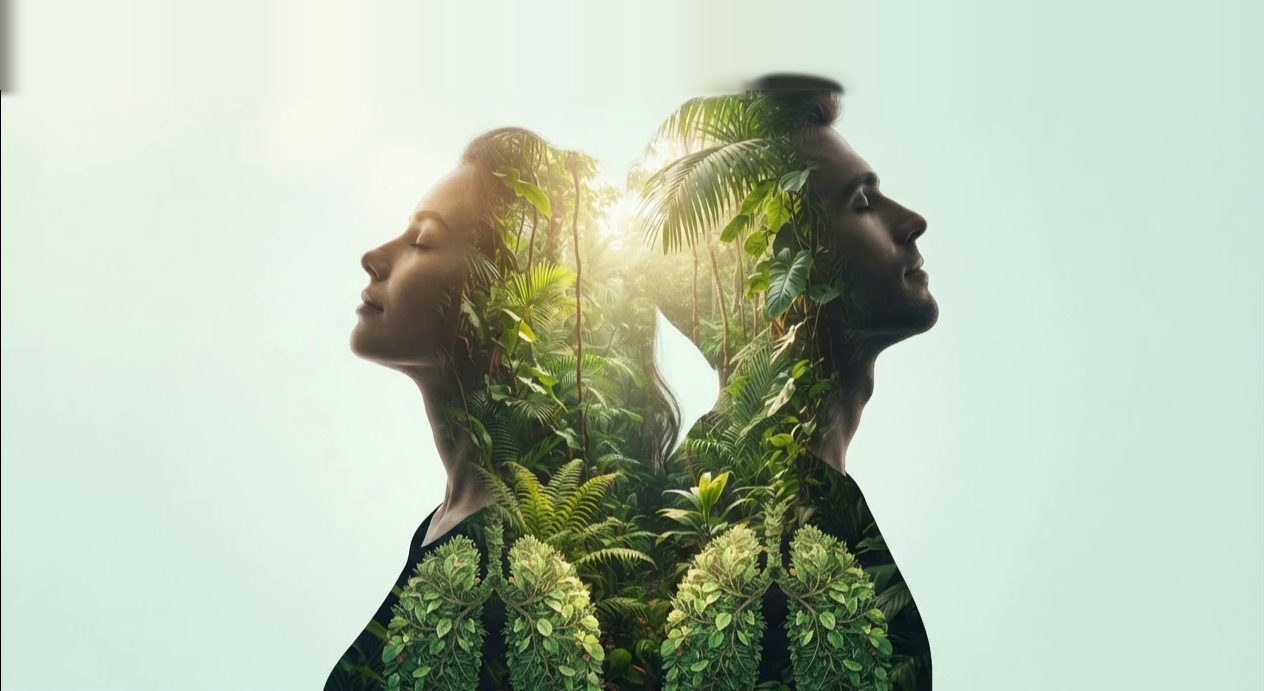
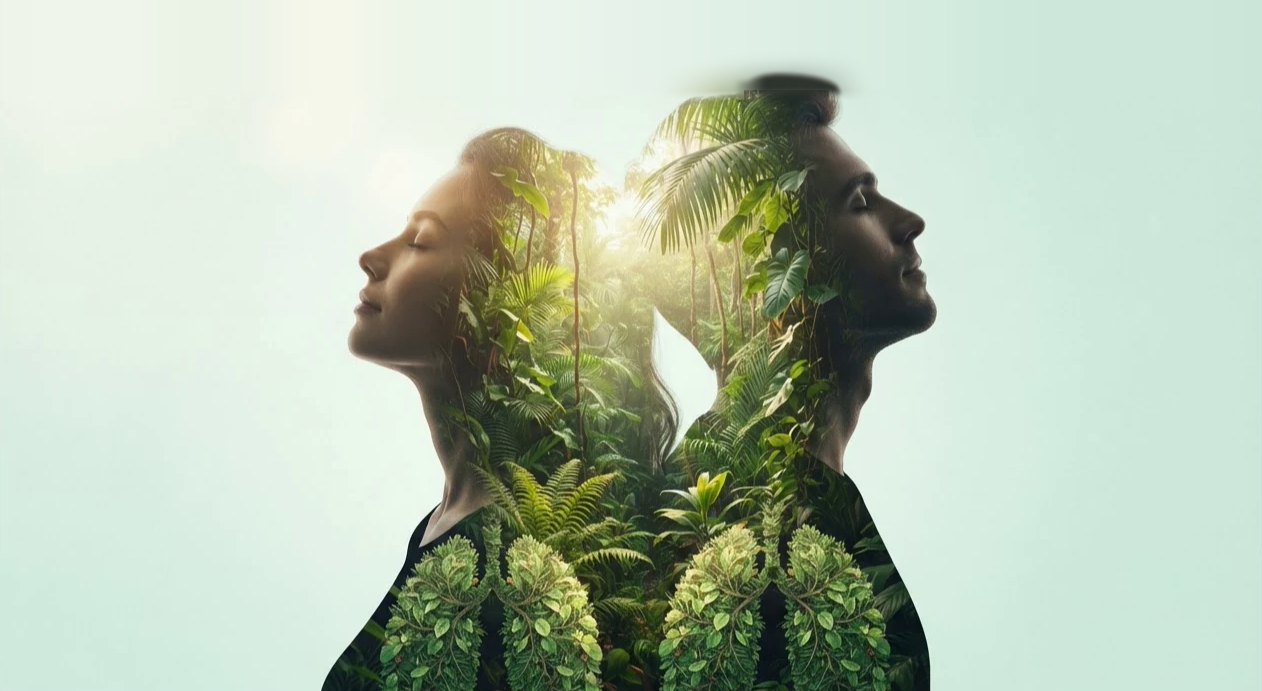
Portada: borde negro eliminado y cielo más limpio sobre las cabezas
Claude-Session: https://claude.ai/code/session_01MPVjHxFE6a3eHfzGQKjEna

diff --git a/index.html b/index.html
@@ -197,7 +197,7 @@ footer .wrap{display:flex; flex-wrap:wrap; justify-content:space-between; gap:12
     <div class="trust"><span>Sin registro</span><span>Tabaco o vaper</span><span>Funciona sin internet</span><span>15 días gratis, sin tarjeta</span></div>
   </div>
   <div class="hero-visual has-photo nophone">
-  <img class="hero-photo" src="img/portada-fusionada.webp" srcset="img/portada-fusionada-900.webp 900w, img/portada-fusionada.webp 1264w" sizes="(max-width: 860px) 100vw, 45vw" width="1264" height="691" alt="Una mujer y un hombre espalda con espalda respirando, con una selva verde dentro de los pulmones" fetchpriority="high">
+  <img class="hero-photo" src="img/portada-fusionada.webp" srcset="img/portada-fusionada-900.webp 900w, img/portada-fusionada.webp 1262w" sizes="(max-width: 860px) 100vw, 45vw" width="1262" height="691" alt="Una mujer y un hombre espalda con espalda respirando, con una selva verde dentro de los pulmones" fetchpriority="high">
   <div class="phone" aria-label="Vista de la app Aire">
     <div class="screen">
       <div class="scr-hero"><small>Llevas sin fumar</small><b><span id="dDays">9</span> días</b><span class="num" id="dHms">04 h 12 min 00 s</span></div>

diff --git a/landing.html b/landing.html
@@ -188,7 +188,7 @@ footer .wrap{display:flex; flex-wrap:wrap; justify-content:space-between; gap:12
     <div class="trust"><span>Sin registro</span><span>Tabaco o vaper</span><span>Funciona sin internet</span><span>15 días gratis, sin tarjeta</span></div>
   </div>
   <div class="hero-visual has-photo nophone">
-  <img class="hero-photo" src="img/portada-fusionada.webp" srcset="img/portada-fusionada-900.webp 900w, img/portada-fusionada.webp 1264w" sizes="(max-width: 860px) 100vw, 45vw" width="1264" height="691" alt="Una mujer y un hombre espalda con espalda respirando, con una selva verde dentro de los pulmones" fetchpriority="high">
+  <img class="hero-photo" src="img/portada-fusionada.webp" srcset="img/portada-fusionada-900.webp 900w, img/portada-fusionada.webp 1262w" sizes="(max-width: 860px) 100vw, 45vw" width="1262" height="691" alt="Una mujer y un hombre espalda con espalda respirando, con una selva verde dentro de los pulmones" fetchpriority="high">
   <div class="phone" aria-label="Vista de la app Aire">
     <div class="screen">
       <div class="scr-hero"><small>Llevas sin fumar</small><b><span id="dDays">9</span> días</b><span class="num" id="dHms">04 h 12 min 00 s</span></div>

diff --git a/app/sw.js b/app/sw.js
@@ -1,5 +1,5 @@
 // Aire · funciona sin conexión: guarda la app en caché y la sirve aunque no haya red.
-const CACHE = 'aire-v14';
+const CACHE = 'aire-v15';
 const SHELL = ['./', './index.html', './manifest.webmanifest', './icon.svg', './icon-192.png', './icon-512.png', '../img/airi-feliz.webp', '../img/airi-celebra.webp', '../img/airi-medalla.webp', '../img/pulmones.webp', '../img/logo-pulmones.webp', '../img/portada-pareja-900.webp', '../img/portada-fusionada-900.webp'];
 
 self.addEventListener('install', e => {
